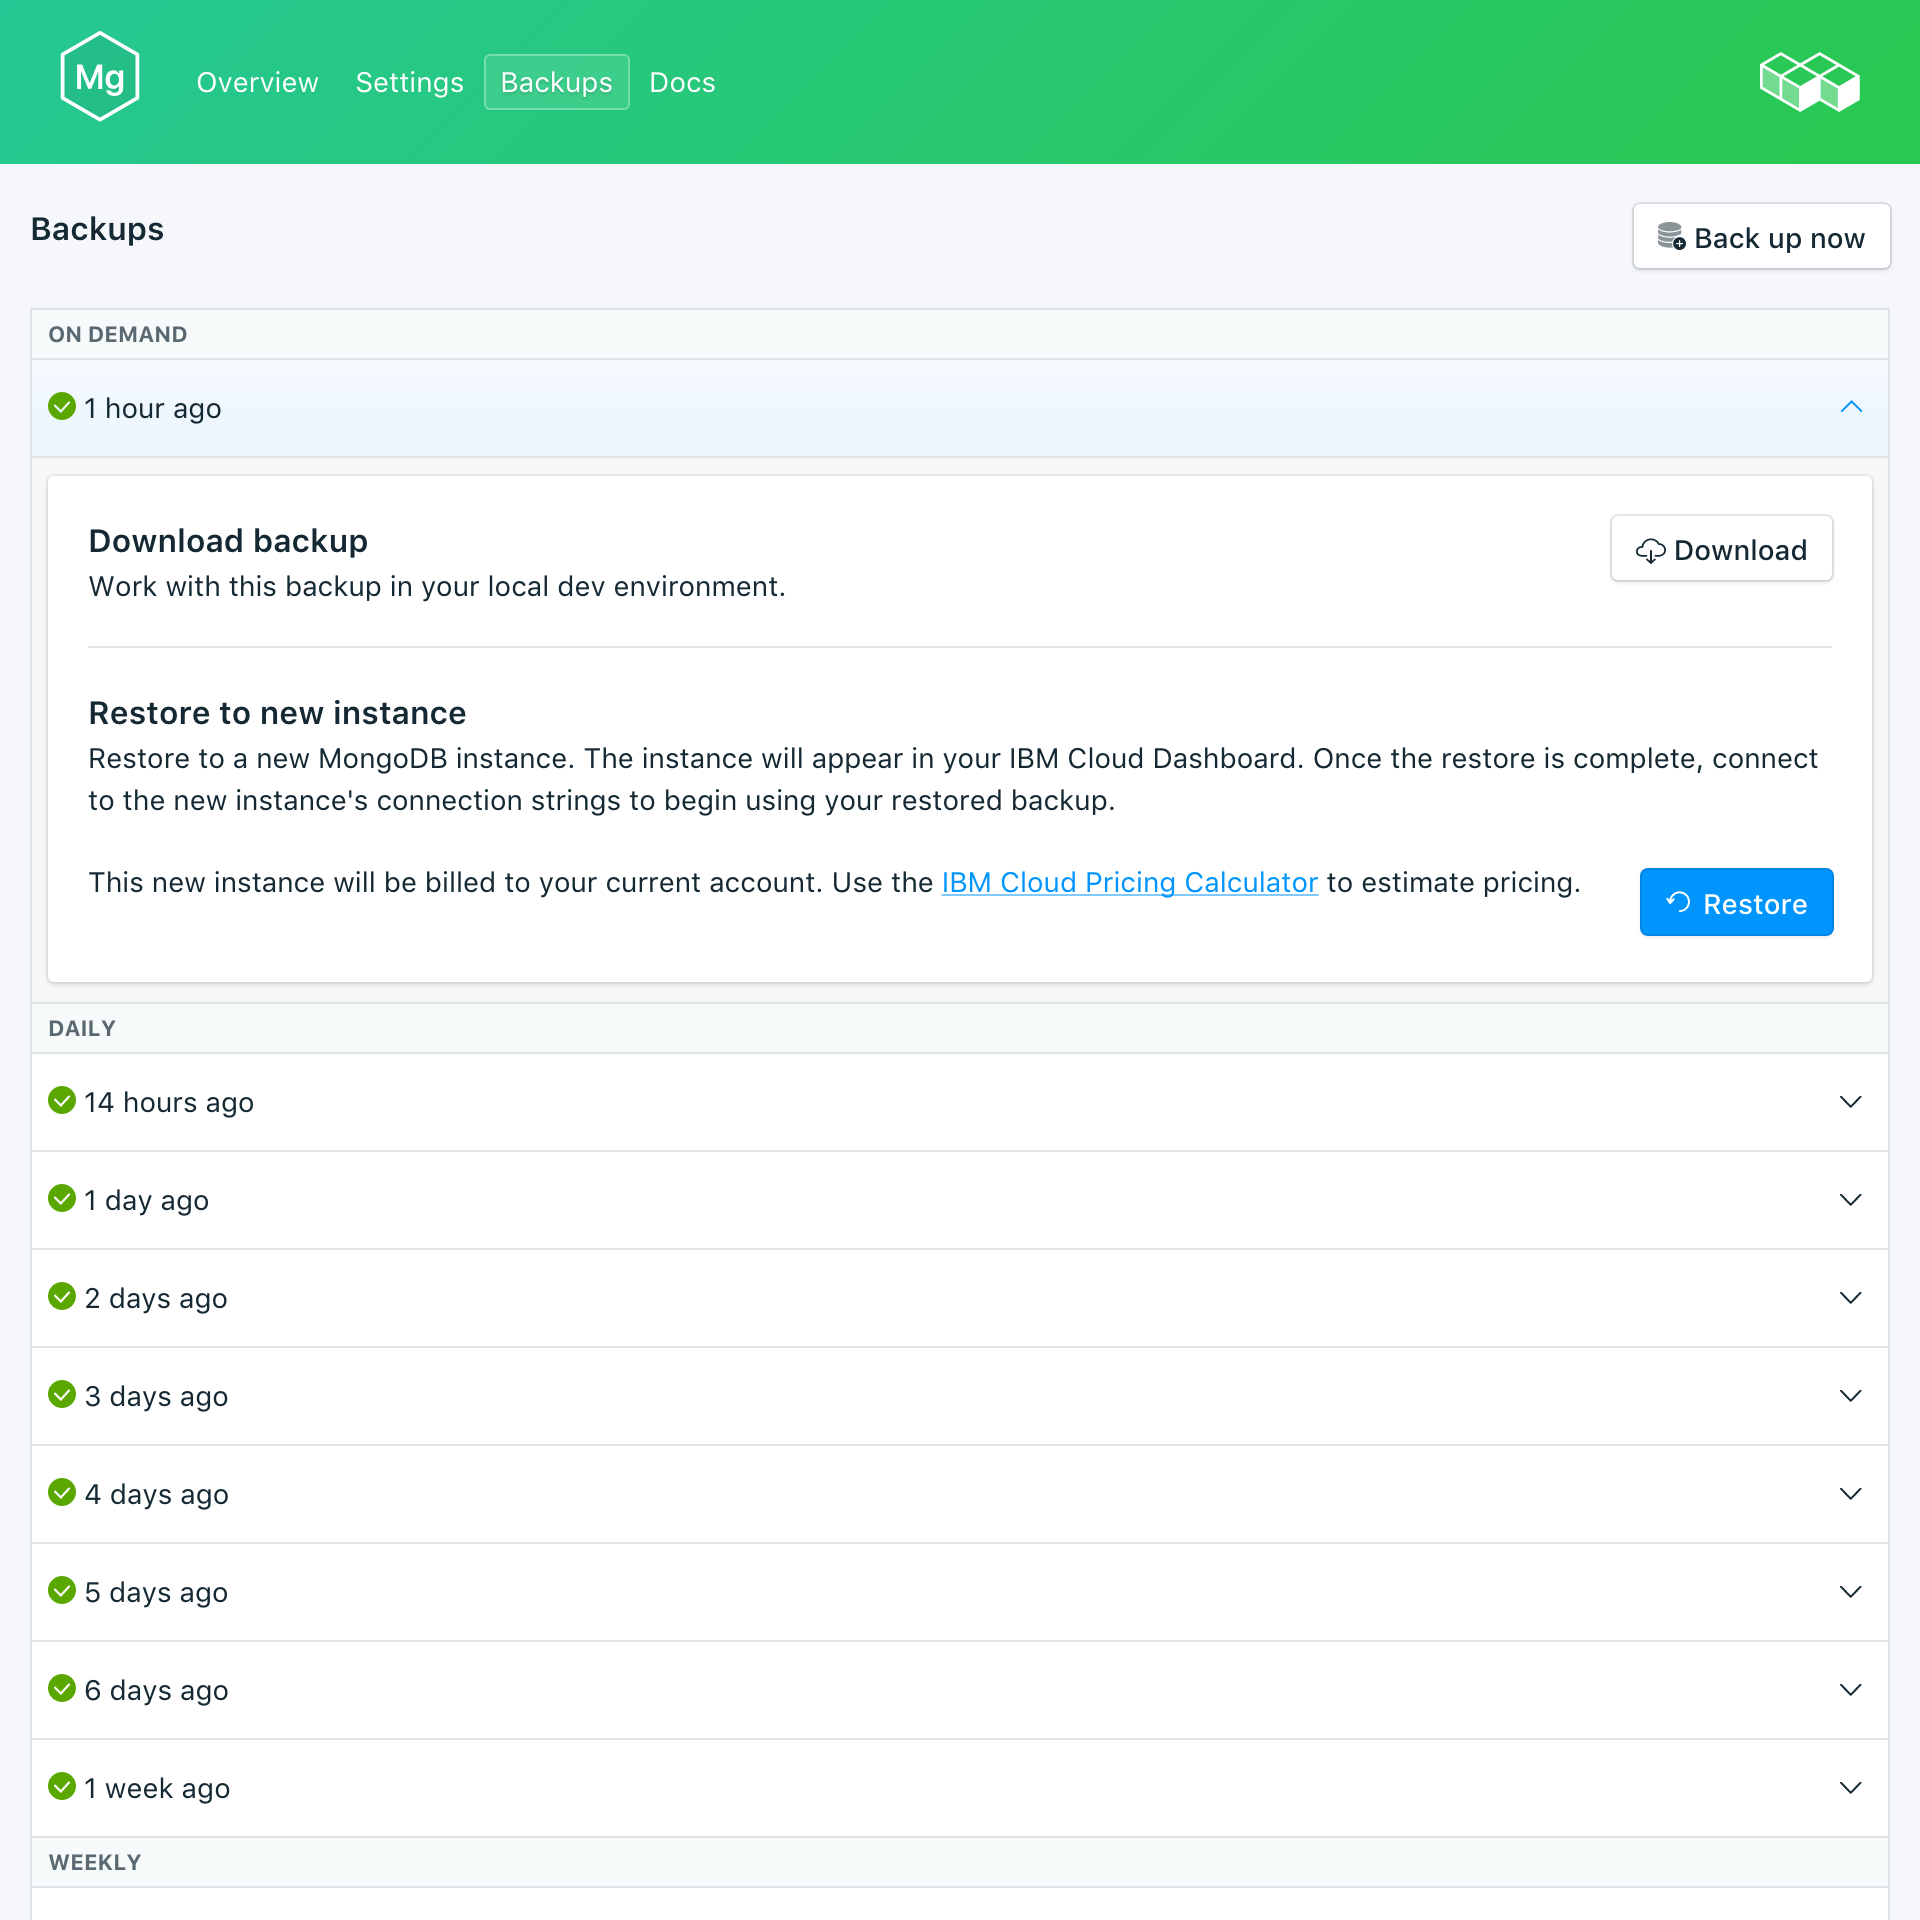
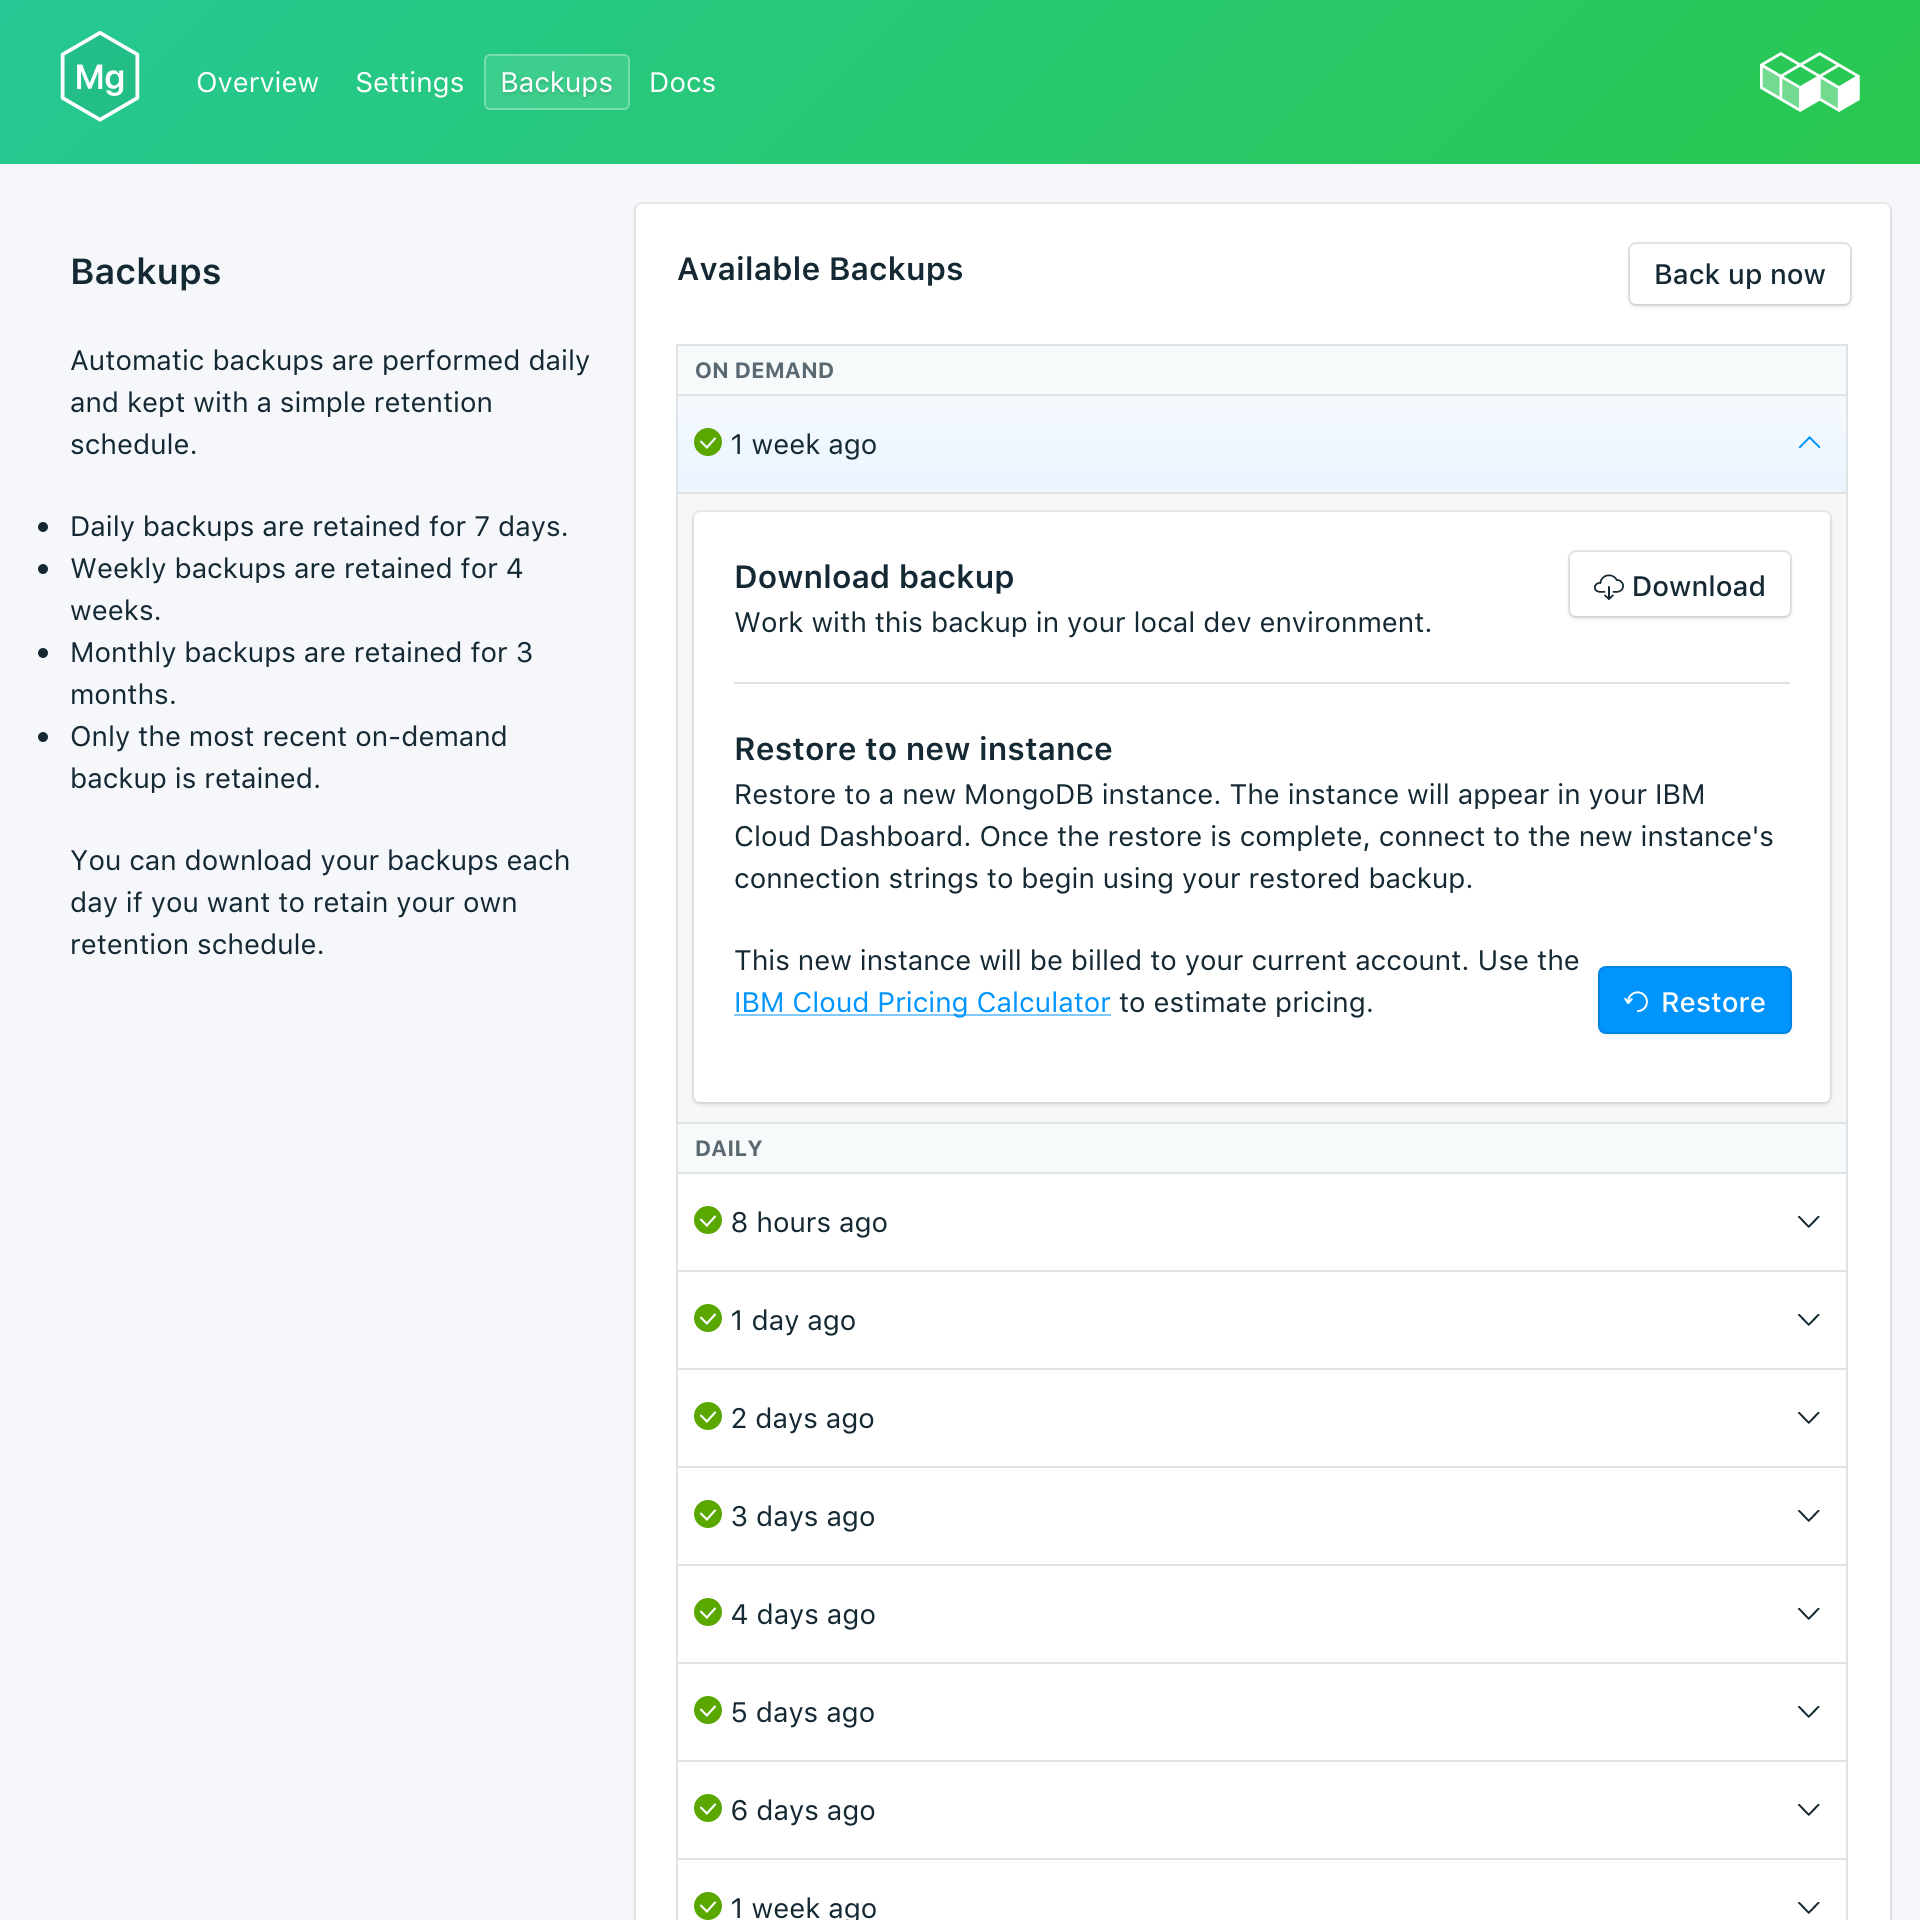
Updates 05 Dec

diff --git a/dashboard-backups.md b/dashboard-backups.md
@@ -15,7 +15,17 @@ lastupdated: "2017-09-07"
 # Backups
 {: #backups}
 
-You can create and download backups from the *Manage* page of your {{site.data.keyword.composeForMongoDB_full}} service dashboard. Both scheduled and manual backups are available.
+You can create and download backups from the _Backups_ tab of the _Manage_ page of your service dashboard. Daily, weekly, monthly, and on-demand backups are available. They are retained according to the following schedule:
+
+Backup type|Retention schedule
+----------|-----------
+Daily|Daily backups are retained for 7 days
+Weekly|Weekly backups are retained for 4 weeks
+Monthly|Monthly backups are retained for 3 months
+On-demand|One on-demand backup is retained. The retained backup is always the most recent on-demand backup.
+{: caption="Table 1. Backup retention schedule" caption-side="top"}
+
+Backup schedules and retention policies are fixed. If you need to keep more backups than the retention schedule allows, you should download backups and retain archives according to your business requirements.
 
 ## Viewing existing backups
 

diff --git a/dashboard-overview.md b/dashboard-overview.md
@@ -23,7 +23,7 @@ The _Deployment Details_ panel shows details of your service.
 
 ### Type
 
-The type of database that is offered by the service, and the database version that your service uses.
+The type of database that is offered by the service, and the database version that your service uses. If a more recent database version is available, a notification is displayed, together with a link to the [Upgrade version](/docs/services/ComposeForMongoDB/dashboard-settings.html#upgrade-version) section of your service dashboard.
 
 ### Name
 
